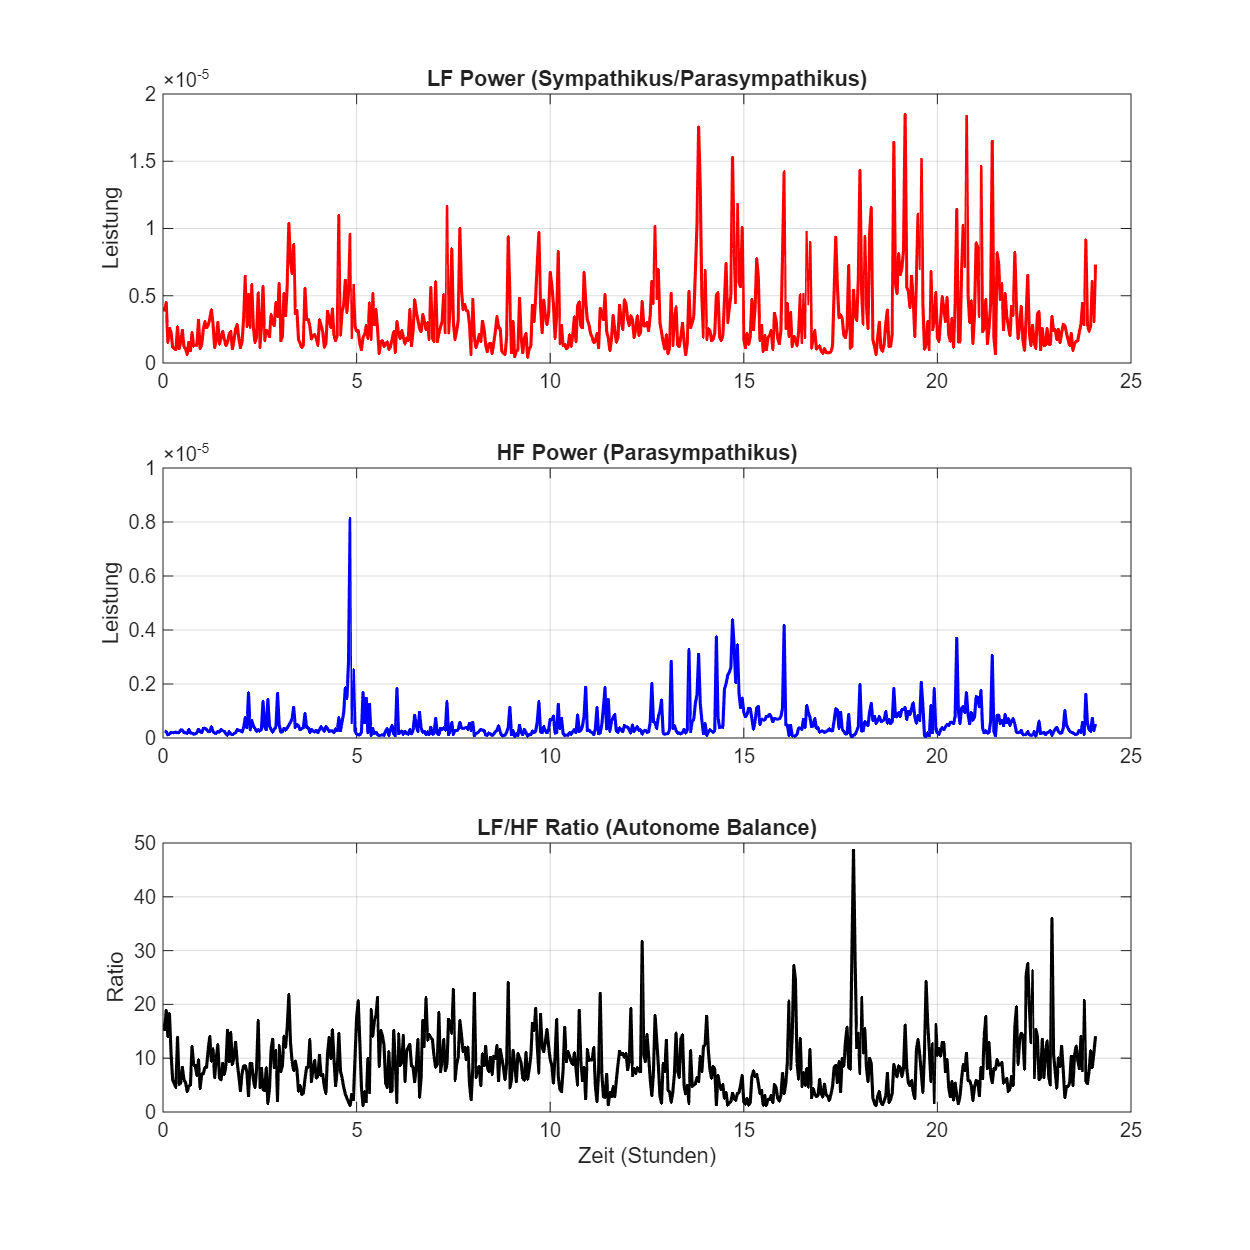
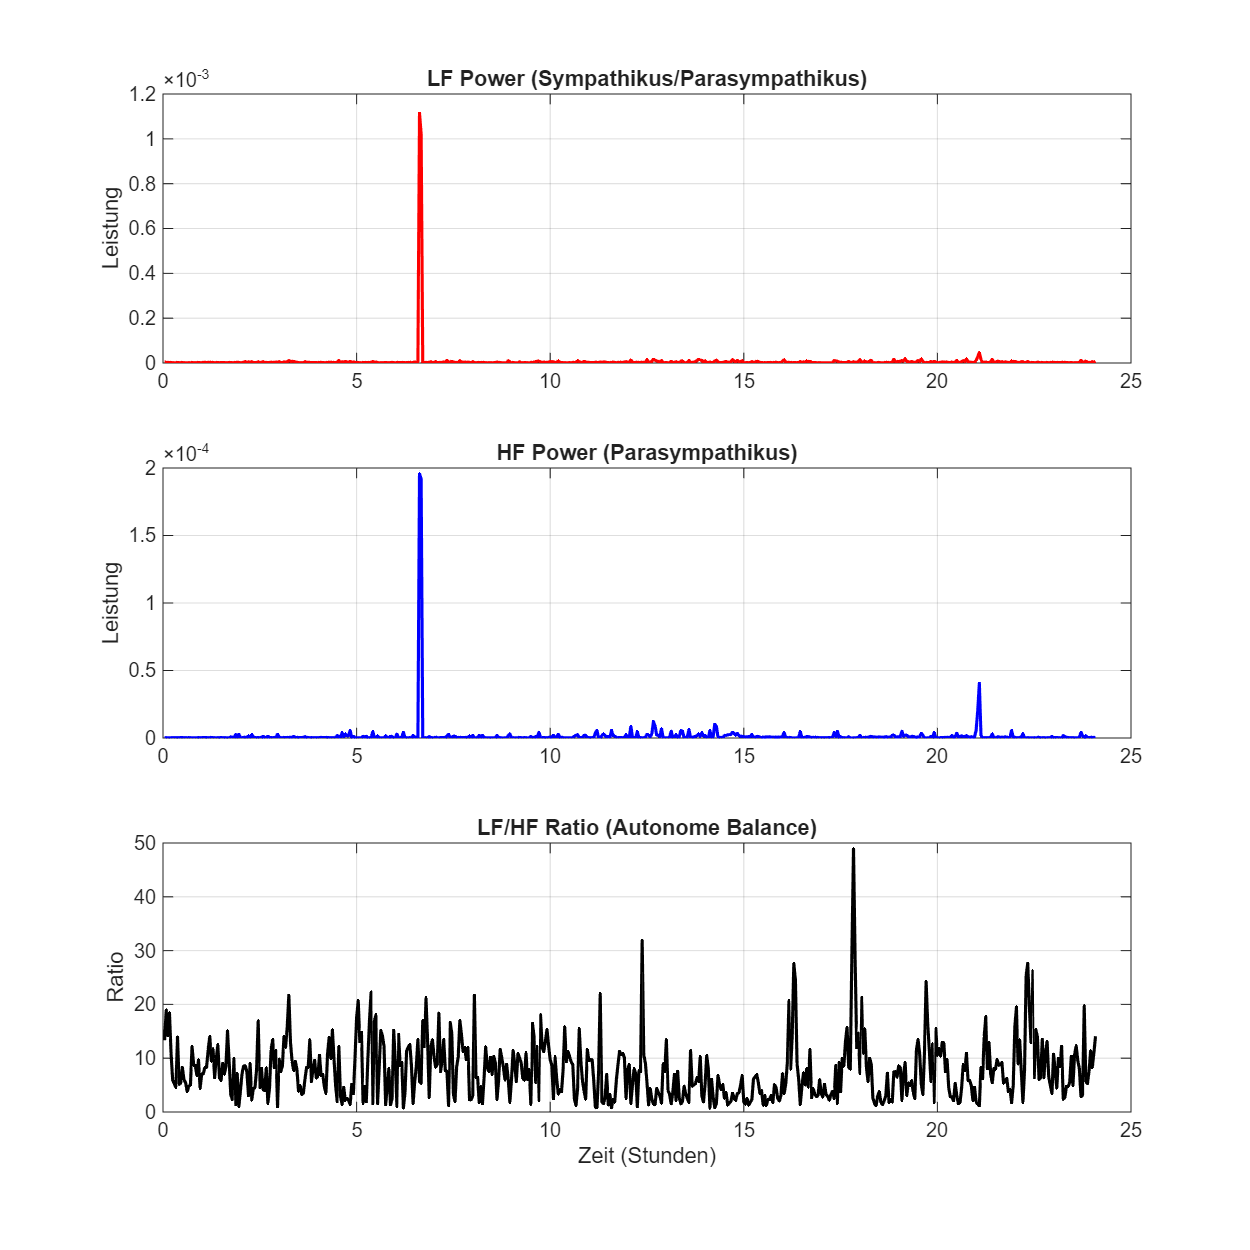
Fixes

diff --git a/src/preprocess_ecg.m b/src/preprocess_ecg.m
@@ -2,23 +2,29 @@
 % Bereinigt das EKG-Signal von Störungen (Gleichanteil, Netzbrummen,
 % Rauschen).
 % Wendet nacheinander einen Highpass-Filter (gegen Baseline-Wanderung),
-% einen Notch-Filter (gegen 50Hz-Netzbrummen) und einen Lowpass-Filter
+% einen Butterworth-Bandstop (gegen 50Hz-Netzbrummen) und einen Lowpass-Filter
 % (gegen hochfrequentes Rauschen) an.
 % =========================================================================
 function ecg_clean = preprocess_ecg(ecg_signal, fs, config)
     % Konstanten
-    NOTCH_Q_FACTOR = 35; % Gütefaktor für die Bandbreite des Notch-Filters
+    NOTCH_Q_FACTOR = 35; % Gütefaktor für die Bandbreite
 
     % Entfernung von Gleichanteil / Baseline-Wanderung (Highpass)
     ecg_clean = highpass(ecg_signal, config.preproc.hp_cutoff, fs);
     
-    % Unterdrückung von Netzbrummen (Notch)
-    wo = config.preproc.notch_freq/(fs/2);  
-    bw = wo/NOTCH_Q_FACTOR;
-    Wn = [49, 51] / (250/2);
-    [b, a] = butter(2, Wn, 'stop');
-    ecg_clean = filtfilt(b, a, ecg_signal);
+    % Unterdrückung von 50Hz Netzbrummen (robuster Butterworth Bandstop)
+    notch_freq = config.preproc.notch_freq;
+    bw_hz = notch_freq / NOTCH_Q_FACTOR; % Bandbreite berechnen (ca. 1.4 Hz)
     
-    % Hochfrequentes Rauschen filtern (Lowpass)
+    % Kritische Frequenzen dynamisch mit fs normieren (0 bis 1)
+    Wn = [(notch_freq - bw_hz/2), (notch_freq + bw_hz/2)] / (fs/2);
+    
+    % Butterworth-Bandsperre 2. Ordnung entwerfen und anwenden
+    [b, a] = butter(2, Wn, 'stop');
+    
+    % WICHTIG: Filter auf ecg_clean anwenden, um den Highpass nicht zu überschreiben!
+    ecg_clean = filtfilt(b, a, ecg_clean);
+    
+    % 3. Hochfrequentes Rauschen filtern (Lowpass)
     ecg_clean = lowpass(ecg_clean, config.preproc.lp_cutoff, fs);
 end